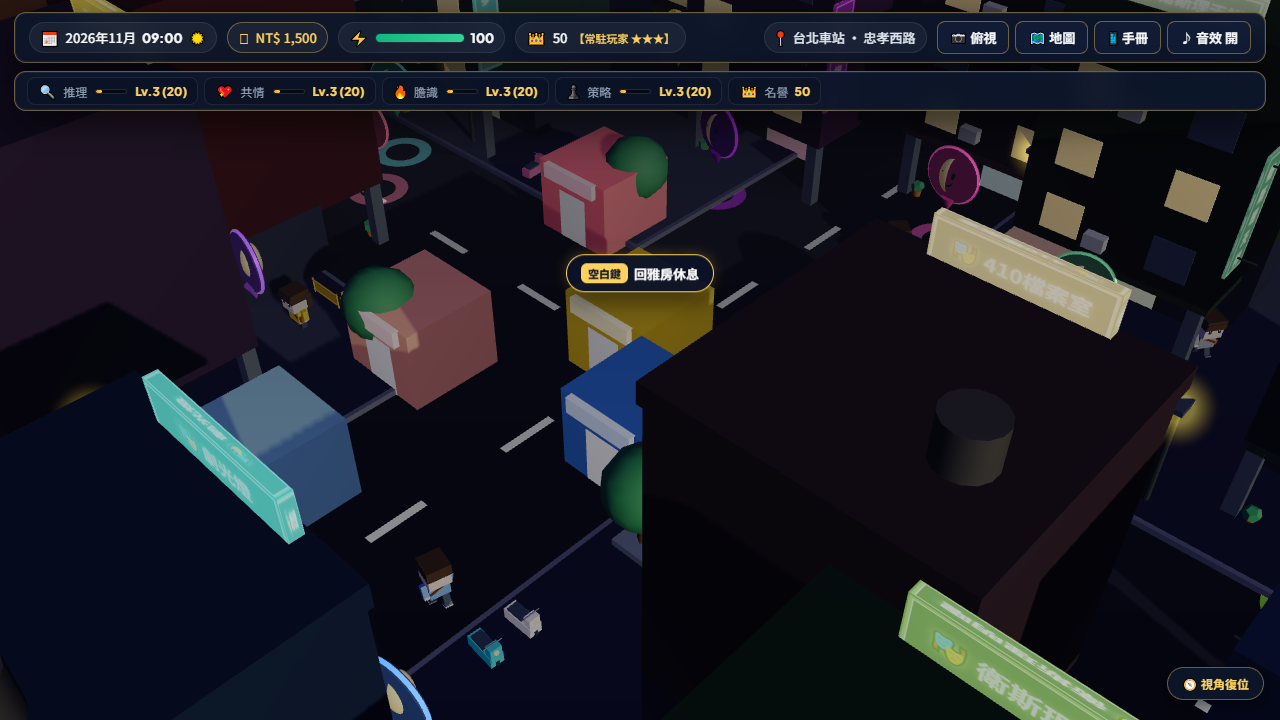
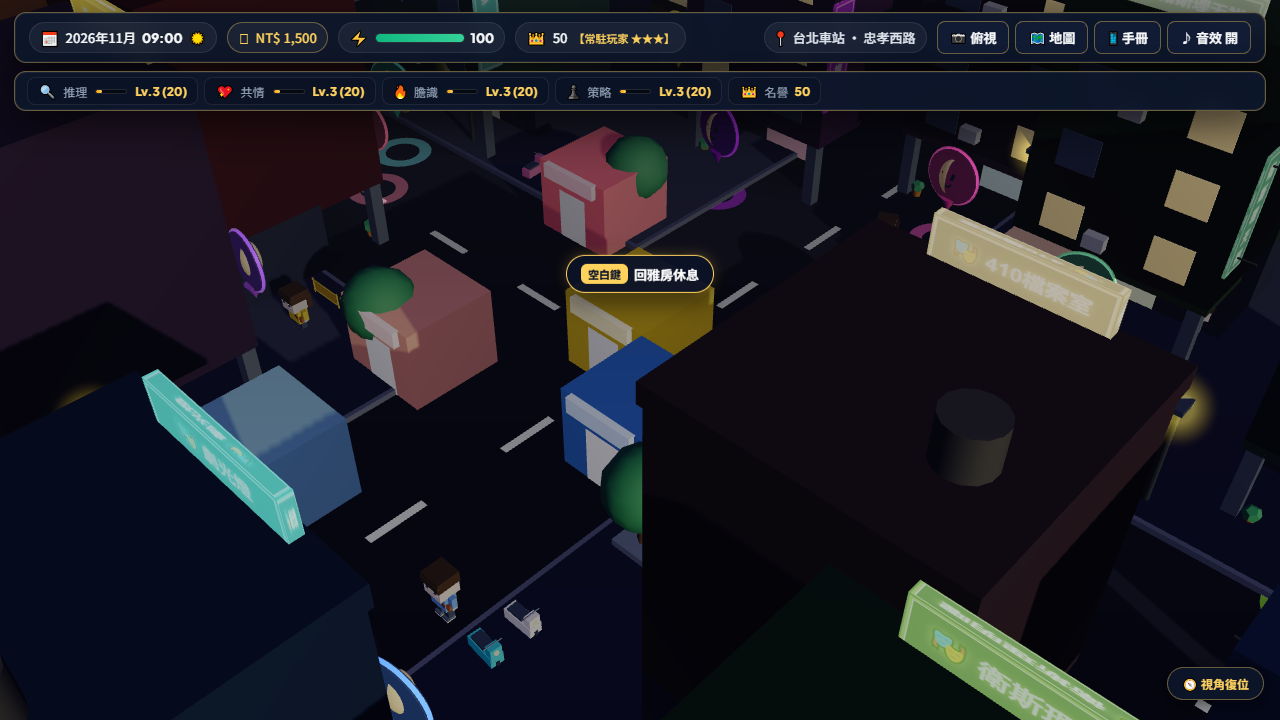
feat: integrate bottom sheet store drawer, room lighting and window exports

diff --git a/capture_all.js b/capture_all.js
@@ -26,8 +26,8 @@ async function run() {
   console.log('Navigating to live URL...');
   await page.goto('https://taipei-larp-3d.veryhoya.workers.dev/', { waitUntil: 'networkidle2', timeout: 30000 });
 
-  // Wait 3.5s for 3D world to render
-  await new Promise(r => setTimeout(r, 3500));
+  // Wait 3s for 3D world to render
+  await new Promise(r => setTimeout(r, 3000));
 
   // Extract WebGL metrics
   const metrics = await page.evaluate(() => {
@@ -43,12 +43,12 @@ async function run() {
     }
     return null;
   });
-  console.log('Renderer info:', JSON.stringify(metrics, null, 2));
+  console.log('WebGL Renderer metrics:', JSON.stringify(metrics, null, 2));
 
   // Capture outdoor street shot
   const outPath1 = path.join(__dirname, 'docs', 'live_street_v3.png');
   await page.screenshot({ path: outPath1 });
-  console.log('Saved:', outPath1);
+  console.log('Saved outdoor:', outPath1);
 
   // Copy to brain artifact directory so it can be viewed
   const artifactDir = 'C:\\Users\\T_T\\.gemini\\antigravity\\brain\\8f46527a-86ff-48cc-b5c0-c96233634e2a';
@@ -57,12 +57,13 @@ async function run() {
   // Now trigger entering indoor room mode
   console.log('Entering Flagship LARP parlor room...');
   await page.evaluate(() => {
-    if (typeof window.enterStore3DRoom === 'function') {
-      window.enterStore3DRoom(0); // Enter 410檔案室
+    if (typeof window.enterStore === 'function' && window.STORES) {
+      window.enterStore(window.STORES[0]);
     }
   });
 
-  await new Promise(r => setTimeout(r, 1500));
+  // Wait 2.5s for smooth camera transition to complete
+  await new Promise(r => setTimeout(r, 2500));
 
   const outPath2 = path.join(__dirname, 'docs', 'live_indoor_room.png');
   await page.screenshot({ path: outPath2 });
@@ -70,7 +71,7 @@ async function run() {
   fs.copyFileSync(outPath2, path.join(artifactDir, 'live_indoor_room.png'));
 
   await browser.close();
-  console.log('Done! Captured all scenes.');
+  console.log('Done! Captured both scenes successfully.');
 }
 
 run().catch(err => {

diff --git a/game3d.js b/game3d.js
@@ -283,6 +283,48 @@ document.getElementById('modal-close-btn').onclick = closeModal;
 
 // ---------- 2.0 抽屜式卡片管理 (Bottom Sheet Manager) ----------
 const bottomSheet = document.getElementById('bottom-sheet');
+
+function openStoreBottomSheet(st) {
+  AudioEngine.sfx('click');
+  const scripts = st.c || [];
+  const bodyHtml = `
+    <div style="font-size:13px; color:#cbd5e1; line-height:1.6; margin-bottom:12px;">
+      📍 地址：${st.loc || '台北市區'}<br>
+      🎭 館藏劇本：<b style="color:var(--gold);">${scripts.length}</b> 部劇本殺作品<br>
+      ⭐ 推薦熱門：${scripts.slice(0, 3).map(s => s[0]).join('、') || '經典推理'}
+    </div>
+  `;
+
+  openBottomSheet(
+    `🎭 ${st.n}`,
+    `${st.loc || '台北市'} · 劇本殺旗艦館`,
+    bodyHtml,
+    [
+      {
+        label: '🚪 進入 3D 店內探索',
+        primary: true,
+        onClick: () => {
+          closeBottomSheet();
+          enterStore(st);
+        }
+      },
+      {
+        label: '📜 瀏覽劇本庫',
+        primary: false,
+        onClick: () => {
+          closeBottomSheet();
+          openScriptBrowser(st);
+        }
+      },
+      {
+        label: '關閉',
+        primary: false,
+        onClick: () => closeBottomSheet()
+      }
+    ]
+  );
+}
+
 const sheetScrim = document.getElementById('sheet-scrim');
 const sheetCloseBtn = document.getElementById('sheet-close-btn');
 
@@ -3068,3 +3110,11 @@ window.addEventListener('resize', () => {
 updateHUD();
 animate();
 showToast('✨ 歡迎來到《台北劇本殺物語 3D》！WASD 或點擊地面自由移動。');
+
+window.enterStore = enterStore;
+window.exitStore = exitStore;
+window.openStoreBottomSheet = openStoreBottomSheet;
+window.STORES = STORES;
+window.renderer = renderer;
+window.scene = scene;
+window.camera = camera;

diff --git a/public/game3d.js b/public/game3d.js
@@ -283,6 +283,48 @@ document.getElementById('modal-close-btn').onclick = closeModal;
 
 // ---------- 2.0 抽屜式卡片管理 (Bottom Sheet Manager) ----------
 const bottomSheet = document.getElementById('bottom-sheet');
+
+function openStoreBottomSheet(st) {
+  AudioEngine.sfx('click');
+  const scripts = st.c || [];
+  const bodyHtml = `
+    <div style="font-size:13px; color:#cbd5e1; line-height:1.6; margin-bottom:12px;">
+      📍 地址：${st.loc || '台北市區'}<br>
+      🎭 館藏劇本：<b style="color:var(--gold);">${scripts.length}</b> 部劇本殺作品<br>
+      ⭐ 推薦熱門：${scripts.slice(0, 3).map(s => s[0]).join('、') || '經典推理'}
+    </div>
+  `;
+
+  openBottomSheet(
+    `🎭 ${st.n}`,
+    `${st.loc || '台北市'} · 劇本殺旗艦館`,
+    bodyHtml,
+    [
+      {
+        label: '🚪 進入 3D 店內探索',
+        primary: true,
+        onClick: () => {
+          closeBottomSheet();
+          enterStore(st);
+        }
+      },
+      {
+        label: '📜 瀏覽劇本庫',
+        primary: false,
+        onClick: () => {
+          closeBottomSheet();
+          openScriptBrowser(st);
+        }
+      },
+      {
+        label: '關閉',
+        primary: false,
+        onClick: () => closeBottomSheet()
+      }
+    ]
+  );
+}
+
 const sheetScrim = document.getElementById('sheet-scrim');
 const sheetCloseBtn = document.getElementById('sheet-close-btn');
 
@@ -3068,3 +3110,11 @@ window.addEventListener('resize', () => {
 updateHUD();
 animate();
 showToast('✨ 歡迎來到《台北劇本殺物語 3D》！WASD 或點擊地面自由移動。');
+
+window.enterStore = enterStore;
+window.exitStore = exitStore;
+window.openStoreBottomSheet = openStoreBottomSheet;
+window.STORES = STORES;
+window.renderer = renderer;
+window.scene = scene;
+window.camera = camera;
